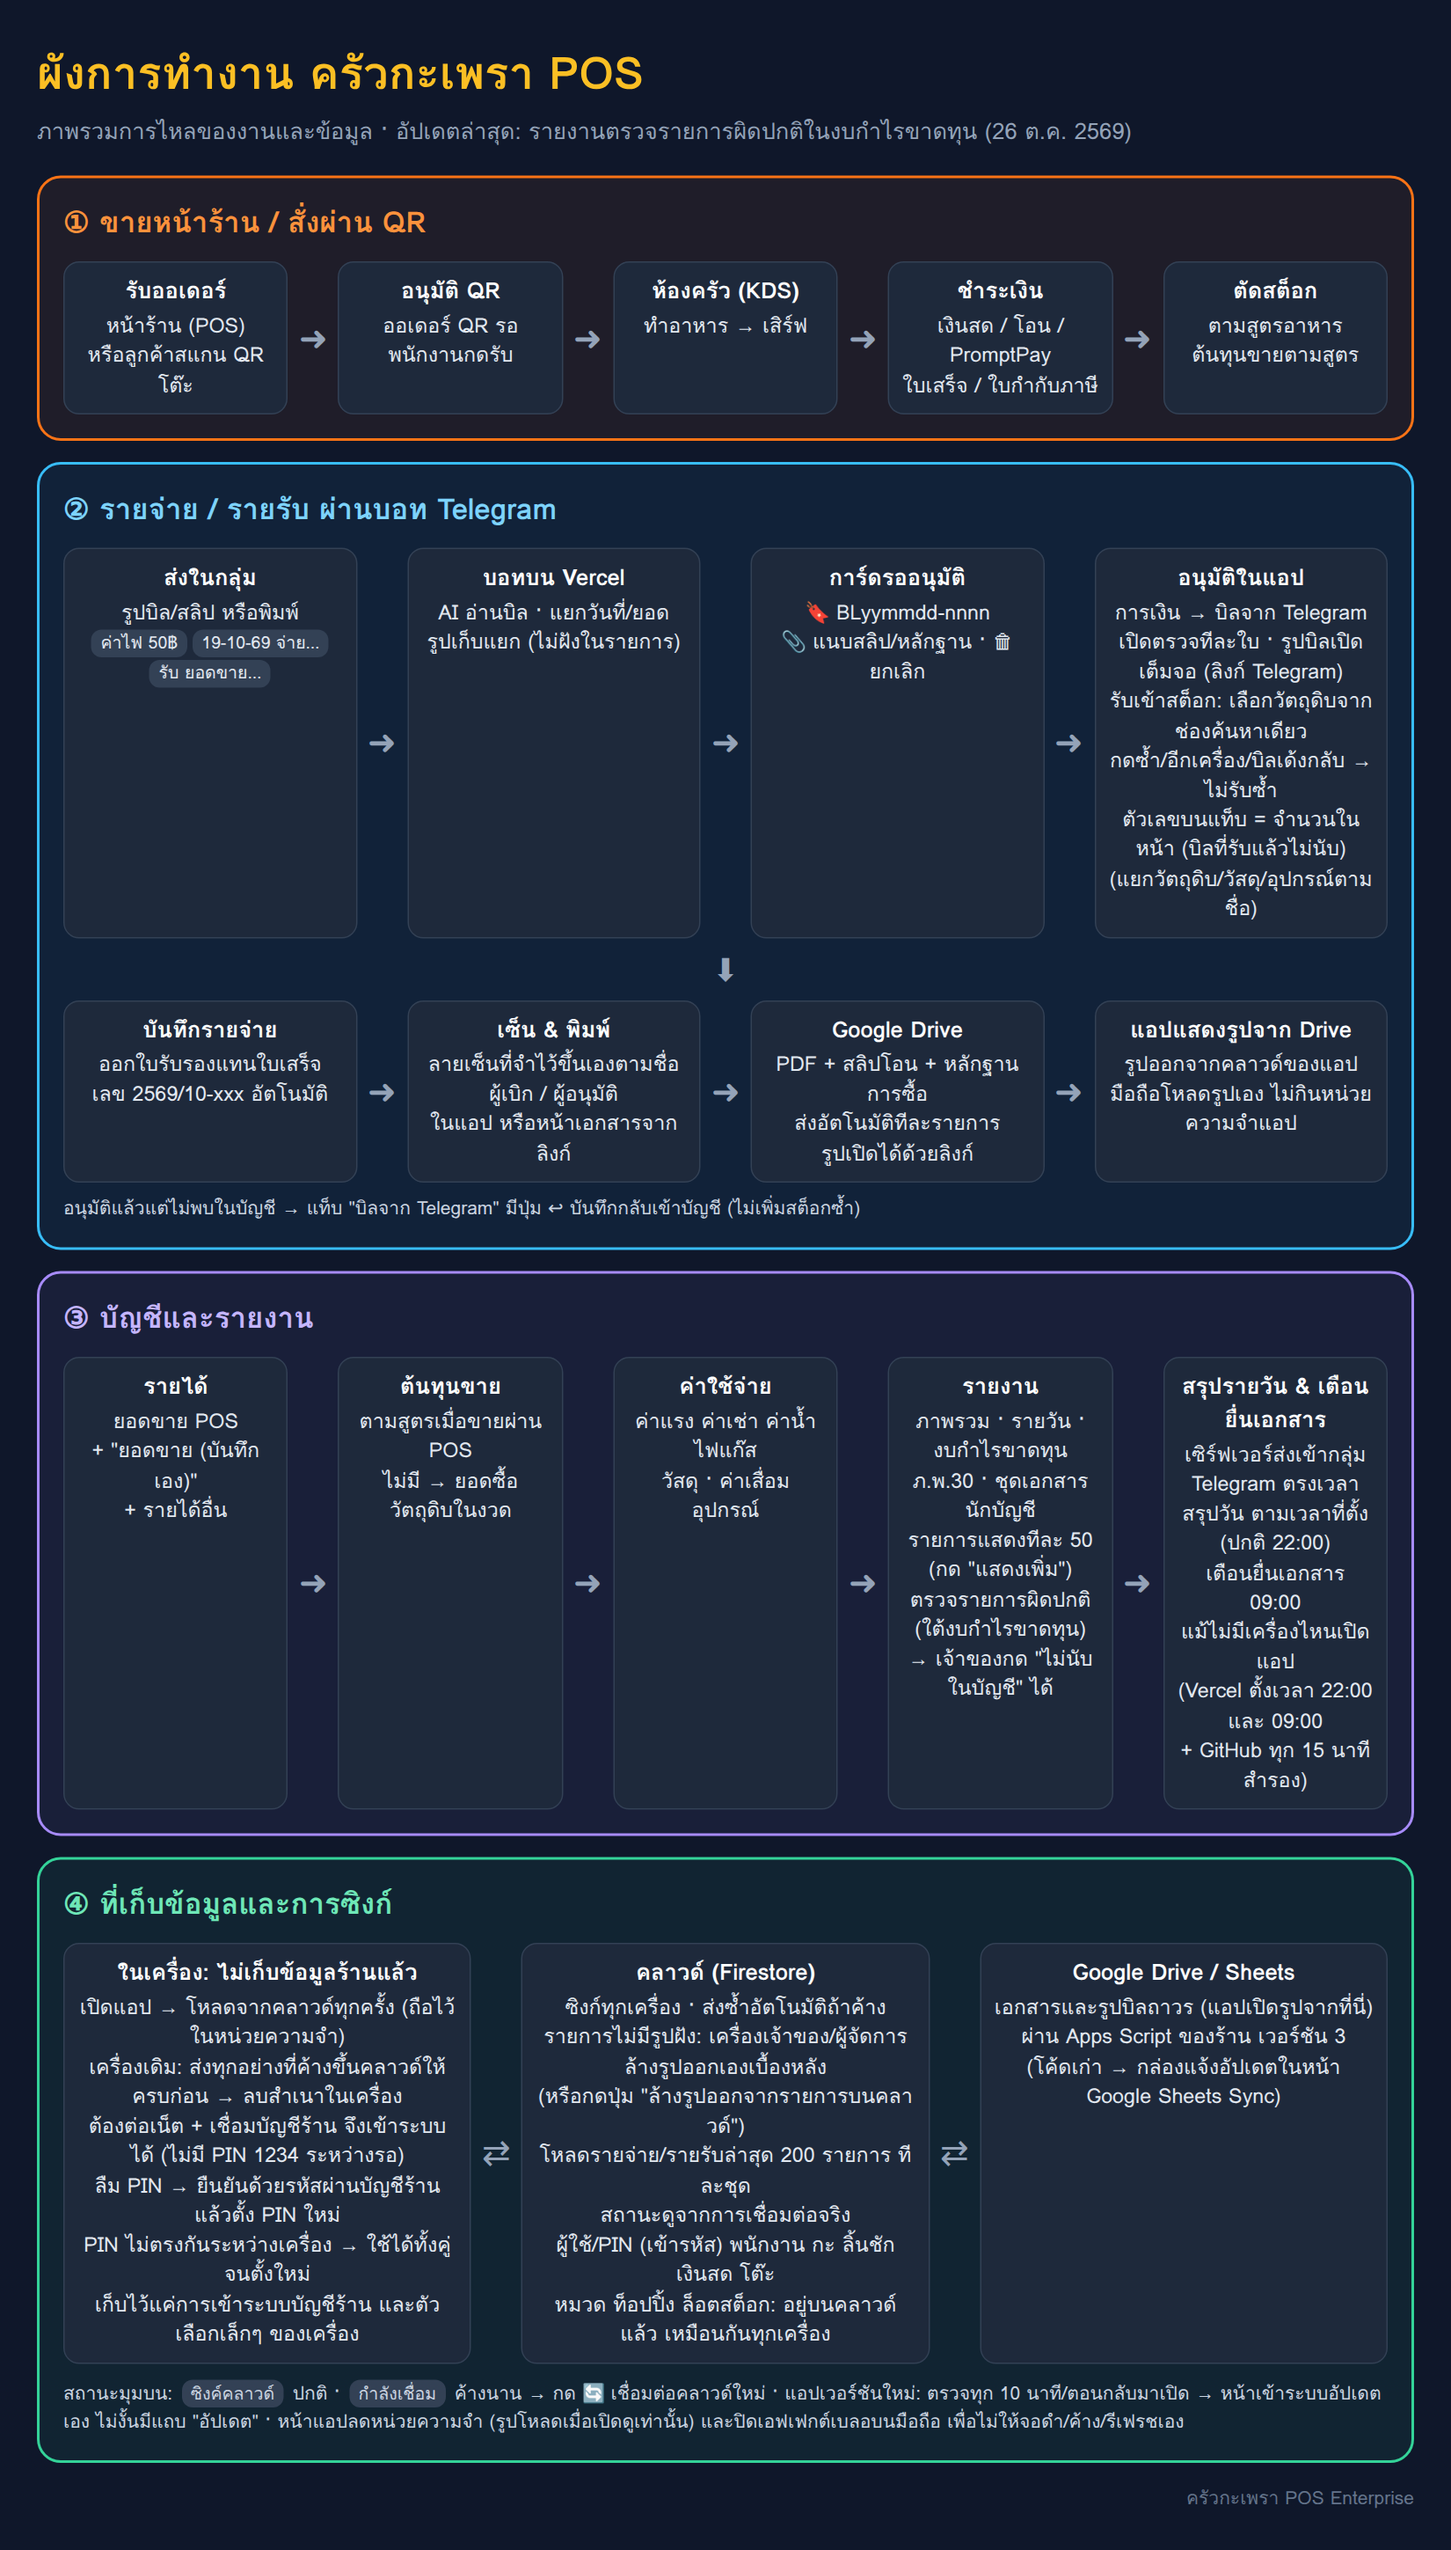
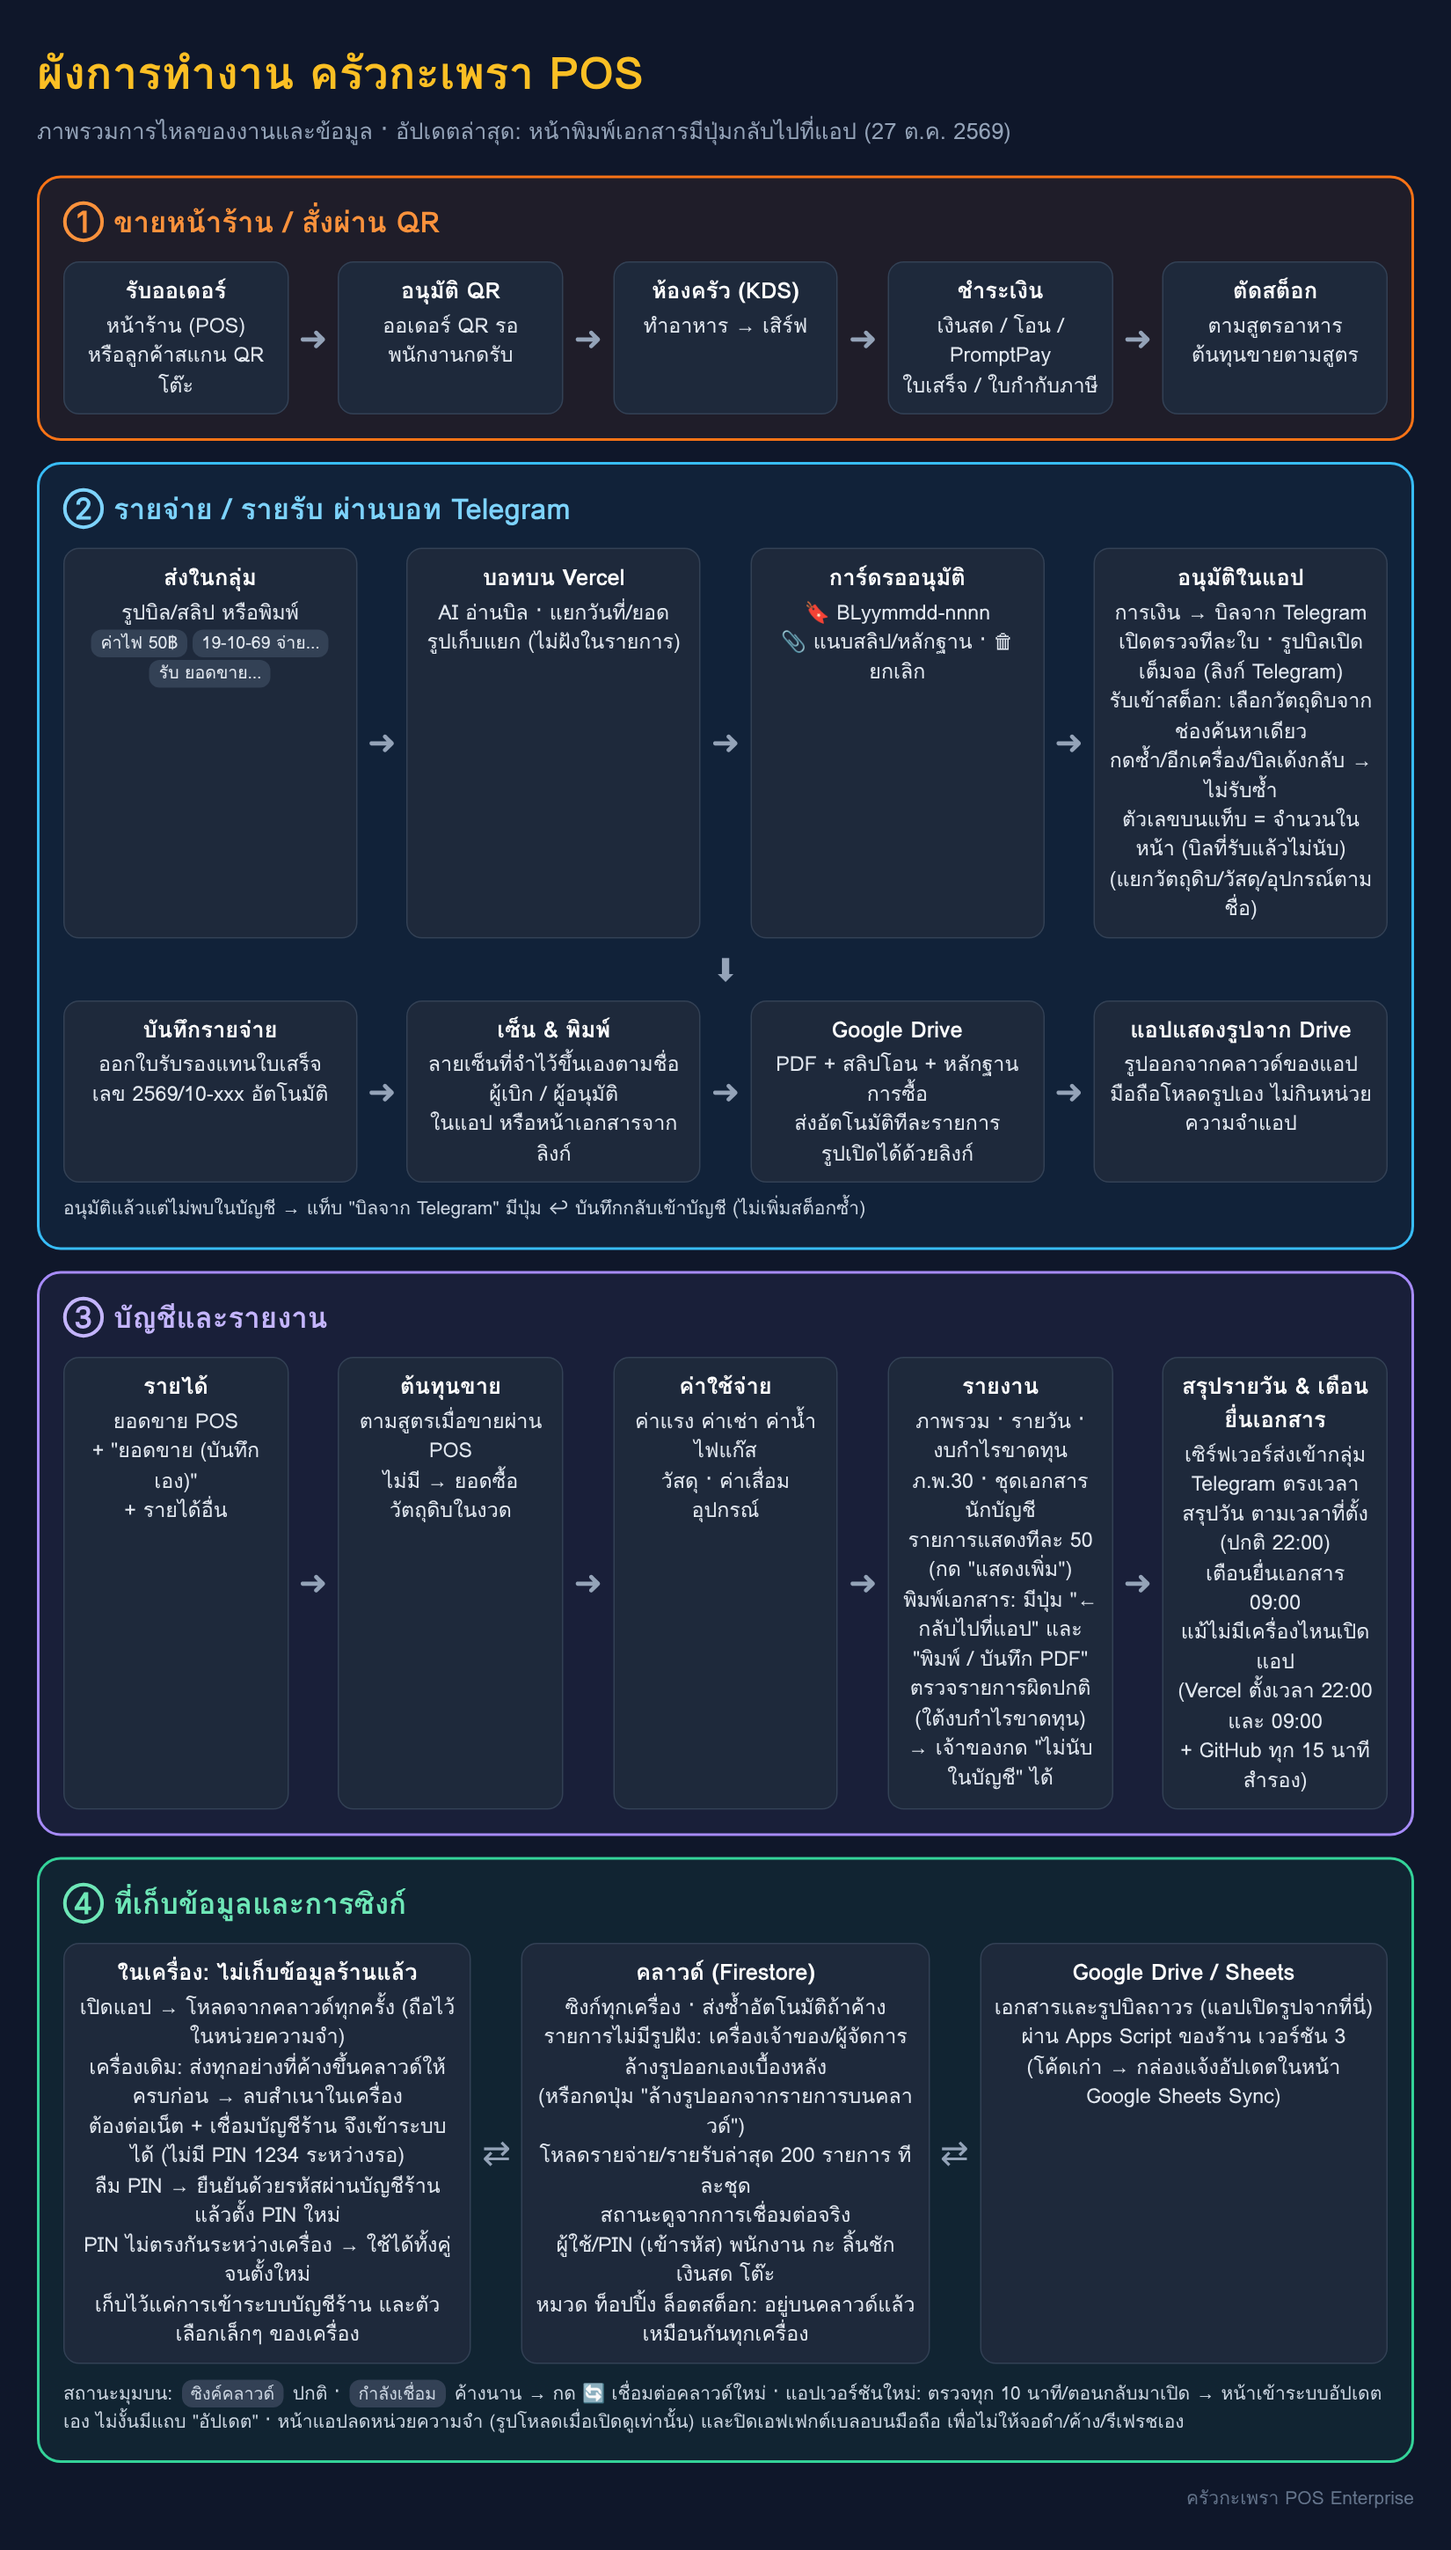
Printed documents: a way back to the app
On an iPhone home-screen app the document opened for printing (e.g. a
statement from the books) filled the screen with no browser buttons and
no way back.

- Every document opened for printing has a bar on top (hidden when
  printing): back to the app (closes the page, or opens the app when it
  cannot be closed) and print / save as PDF
- Documents fit a phone's width on screen
- The unusual-records check stays out of a printed statement

Claude-Session: https://claude.ai/code/session_01Gq3UvYW4wv3hsVCXoh5wxy

diff --git a/docs/workflow/flow.html b/docs/workflow/flow.html
@@ -17,7 +17,7 @@ h1{margin:0 0 4px;font-size:34px;color:#fbbf24}.sub{color:#94a3b8;font-size:17px
 .foot{color:#64748b;font-size:14px;margin-top:6px;text-align:right}
 </style></head><body>
 <h1>ผังการทำงาน ครัวกะเพรา POS</h1>
-<div class="sub">ภาพรวมการไหลของงานและข้อมูล · อัปเดตล่าสุด: รายงานตรวจรายการผิดปกติในงบกำไรขาดทุน (26 ต.ค. 2569)</div>
+<div class="sub">ภาพรวมการไหลของงานและข้อมูล · อัปเดตล่าสุด: หน้าพิมพ์เอกสารมีปุ่มกลับไปที่แอป (27 ต.ค. 2569)</div>
 
 <div class="lane pos"><h2>① ขายหน้าร้าน / สั่งผ่าน QR</h2>
 <div class="row">
@@ -50,7 +50,7 @@ h1{margin:0 0 4px;font-size:34px;color:#fbbf24}.sub{color:#94a3b8;font-size:17px
 <div class="box"><b>รายได้</b>ยอดขาย POS<br>+ "ยอดขาย (บันทึกเอง)"<br>+ รายได้อื่น</div><div class="ar">➜</div>
 <div class="box"><b>ต้นทุนขาย</b>ตามสูตรเมื่อขายผ่าน POS<br>ไม่มี → ยอดซื้อวัตถุดิบในงวด</div><div class="ar">➜</div>
 <div class="box"><b>ค่าใช้จ่าย</b>ค่าแรง ค่าเช่า ค่าน้ำไฟแก๊ส<br>วัสดุ · ค่าเสื่อมอุปกรณ์</div><div class="ar">➜</div>
-<div class="box"><b>รายงาน</b>ภาพรวม · รายวัน · งบกำไรขาดทุน<br>ภ.พ.30 · ชุดเอกสารนักบัญชี<br>รายการแสดงทีละ 50 (กด "แสดงเพิ่ม")<br>ตรวจรายการผิดปกติ (ใต้งบกำไรขาดทุน)<br>→ เจ้าของกด "ไม่นับในบัญชี" ได้</div><div class="ar">➜</div>
+<div class="box"><b>รายงาน</b>ภาพรวม · รายวัน · งบกำไรขาดทุน<br>ภ.พ.30 · ชุดเอกสารนักบัญชี<br>รายการแสดงทีละ 50 (กด "แสดงเพิ่ม")<br>พิมพ์เอกสาร: มีปุ่ม "← กลับไปที่แอป" และ "พิมพ์ / บันทึก PDF"<br>ตรวจรายการผิดปกติ (ใต้งบกำไรขาดทุน)<br>→ เจ้าของกด "ไม่นับในบัญชี" ได้</div><div class="ar">➜</div>
 <div class="box"><b>สรุปรายวัน &amp; เตือนยื่นเอกสาร</b>เซิร์ฟเวอร์ส่งเข้ากลุ่ม Telegram ตรงเวลา<br>สรุปวัน ตามเวลาที่ตั้ง (ปกติ 22:00)<br>เตือนยื่นเอกสาร 09:00<br>แม้ไม่มีเครื่องไหนเปิดแอป<br>(Vercel ตั้งเวลา 22:00 และ 09:00<br>+ GitHub ทุก 15 นาที สำรอง)</div>
 </div></div>
 

diff --git a/src/utils/staffDocs.ts b/src/utils/staffDocs.ts
@@ -1,6 +1,7 @@
 import type { PayrollAdjustment, StaffMember } from '../types';
 import type { MonthlyPay } from './payroll';
 import { thaiBahtText } from './thaiBaht';
+import { withPrintBar } from './printBar';
 import { formatThaiId, WHT_FORM_LABEL, WHT_TABLE_ROWS, WhtForm } from './withholding';
 
 /** Printable documents for staff and suppliers: payslips and withholding tax certificates (50 ทวิ). */
@@ -39,7 +40,8 @@ th,td{padding:5px 7px 7px;vertical-align:middle;line-height:1.5}
 .cb{display:inline-block;width:12px;height:12px;border:1px solid #111;margin:0 4px -2px 10px;text-align:center;line-height:10px;font-size:11px}
 .sig{display:flex;justify-content:space-around;margin-top:22px;font-size:12px;text-align:center}
 .sig div{width:45%}
-@media screen{body{background:#e5e7eb}.page{background:#fff;margin:12px auto;box-shadow:0 1px 6px rgba(0,0,0,.2)}}
+@media screen{body{background:#e5e7eb;margin:0}.page{background:#fff;margin:12px auto;box-shadow:0 1px 6px rgba(0,0,0,.2)}}
+@media screen and (max-width:820px){.page{width:auto;min-height:0;margin:8px;padding:14px;overflow-x:auto}}
 @media print{@page{margin:0}body{background:#fff}}
 `;
 
@@ -59,11 +61,11 @@ export function documentHtml(title: string, pages: string[]): string {
 export function printDocumentWhenReady(html: Promise<string>): boolean {
   const w = window.open('', '_blank', 'width=900,height=1000');
   if (!w) return false;
-  w.document.write('<p style="font-family:sans-serif;padding:24px">กำลังเตรียมเอกสาร…</p>');
+  w.document.write(withPrintBar('<p style="font-family:sans-serif;padding:24px">กำลังเตรียมเอกสาร…</p>', false));
   html
     .then(h => {
       w.document.open();
-      w.document.write(h.replace('</body>', '<script>window.onload=()=>setTimeout(()=>window.print(),400)</script></body>'));
+      w.document.write(withPrintBar(h));
       w.document.close();
     })
     .catch(() => {
@@ -76,7 +78,7 @@ export function printDocument(html: string): boolean {
   const w = window.open('', '_blank', 'width=900,height=1000');
   if (!w) return false;
   w.document.open();
-  w.document.write(html.replace('</body>', '<script>window.onload=()=>setTimeout(()=>window.print(),400)</script></body>'));
+  w.document.write(withPrintBar(html));
   w.document.close();
   return true;
 }

diff --git a/src/utils/printBar.ts b/src/utils/printBar.ts
@@ -1,0 +1,16 @@
+/**
+ * A bar on top of every document opened for printing: "back to the app" and "print". On an iPhone
+ * home-screen app the new page fills the screen with no browser buttons, and there was no way back.
+ * Hidden when printing.
+ */
+export function withPrintBar(html: string, autoPrint = true): string {
+  const appUrl = typeof window !== 'undefined' ? `${window.location.origin}${window.location.pathname}` : '';
+  // All in the button itself: a script written into the new page is not always run
+  const back = `try{window.close()}catch(e){};setTimeout(function(){if(!window.closed){location.href=${JSON.stringify(appUrl).replace(/"/g, '&quot;')}}},300)`;
+  const bar = `<div class="kp-print-bar" style="position:sticky;top:0;z-index:2147483647;display:flex;gap:8px;justify-content:space-between;align-items:center;padding:10px 12px;background:#111827;font-family:sans-serif">
+<button type="button" onclick="${back}" style="font:600 16px sans-serif;padding:10px 14px;border-radius:10px;border:1px solid #374151;background:#1f2937;color:#fff">← กลับไปที่แอป</button>
+<button type="button" onclick="window.print()" style="font:600 16px sans-serif;padding:10px 14px;border-radius:10px;border:0;background:#ea580c;color:#fff">🖨 พิมพ์ / บันทึก PDF</button>
+</div><style>@media print{.kp-print-bar{display:none!important}}</style>`;
+  const withBar = /<body[^>]*>/i.test(html) ? html.replace(/<body([^>]*)>/i, `<body$1>${bar}`) : bar + html;
+  return autoPrint ? withBar.replace('</body>', '<script>window.onload=()=>setTimeout(()=>window.print(),400)</script></body>') : withBar;
+}

diff --git a/src/components/attendance/AttendanceSettingsPanel.tsx b/src/components/attendance/AttendanceSettingsPanel.tsx
@@ -1,3 +1,4 @@
+import { withPrintBar } from '../../utils/printBar';
 import React, { useEffect, useState } from 'react';
 import { Crosshair, Download, ExternalLink, MapPin, Printer, QrCode, RefreshCw, X } from 'lucide-react';
 import QRCode from 'qrcode';
@@ -38,7 +39,7 @@ export const ShopClockQR: React.FC<{ onClose: () => void }> = ({ onClose }) => {
   const print = () => {
     const w = window.open('', '_blank', 'width=600,height=800');
     if (!w || !img) return;
-    w.document.write(`<!doctype html><html><head><meta charset="utf-8"><title>QR ลงเวลา</title><style>body{font-family:sans-serif;text-align:center;padding:32px}img{width:80%;max-width:520px}</style></head><body><h1>สแกนเพื่อลงเวลาเข้า-ออกงาน</h1><p>ใช้กล้องมือถือสแกน แล้วใส่ PIN ของคุณ</p><img src="${img}" alt="QR"><script>window.onload=()=>window.print()</script></body></html>`);
+    w.document.write(withPrintBar(`<!doctype html><html><head><meta charset="utf-8"><meta name="viewport" content="width=device-width,initial-scale=1"><title>QR ลงเวลา</title><style>body{font-family:sans-serif;text-align:center;padding:0 0 32px;margin:0}img{width:80%;max-width:520px}</style></head><body><h1>สแกนเพื่อลงเวลาเข้า-ออกงาน</h1><p>ใช้กล้องมือถือสแกน แล้วใส่ PIN ของคุณ</p><img src="${img}" alt="QR"></body></html>`));
     w.document.close();
   };
 

diff --git a/src/components/accounting/LedgerBooks.tsx b/src/components/accounting/LedgerBooks.tsx
@@ -197,8 +197,11 @@ export const LedgerBooks: React.FC<{ tab: LedgerTab; onTab: (t: LedgerTab) => vo
   const name = (code: string) => `${code} ${ACCOUNT_BY_CODE.get(code)?.name || ''}`;
 
   const print = () => {
-    const el = printRef.current;
-    if (!el) return;
+    const shown = printRef.current;
+    if (!shown) return;
+    // Parts only for the screen (the unusual-records check, buttons) stay out of the printout
+    const el = shown.cloneNode(true) as HTMLElement;
+    el.querySelectorAll('[class*="print:hidden"]').forEach(n => n.remove());
     const subtitle = ranged ? `งวด ${thaiDate(from)} – ${thaiDate(to)}` : pointInTime ? `ณ วันที่ ${thaiDate(asOf)}` : '';
     printDocument(
       documentHtml(`${company} ${LEDGER_TAB_LABELS[tab]}`, [

diff --git a/src/utils/exportDocument.ts b/src/utils/exportDocument.ts
@@ -1,3 +1,4 @@
+import { withPrintBar } from './printBar';
 import html2canvas from 'html2canvas';
 import jsPDF from 'jspdf';
 
@@ -416,7 +417,7 @@ export function printElement(
             </div>
           </body>
         </html>
-      `);
+      `.replace(/<body>/, withPrintBar('<body>', false)));
       printWin.document.close();
 
       setTimeout(() => {
